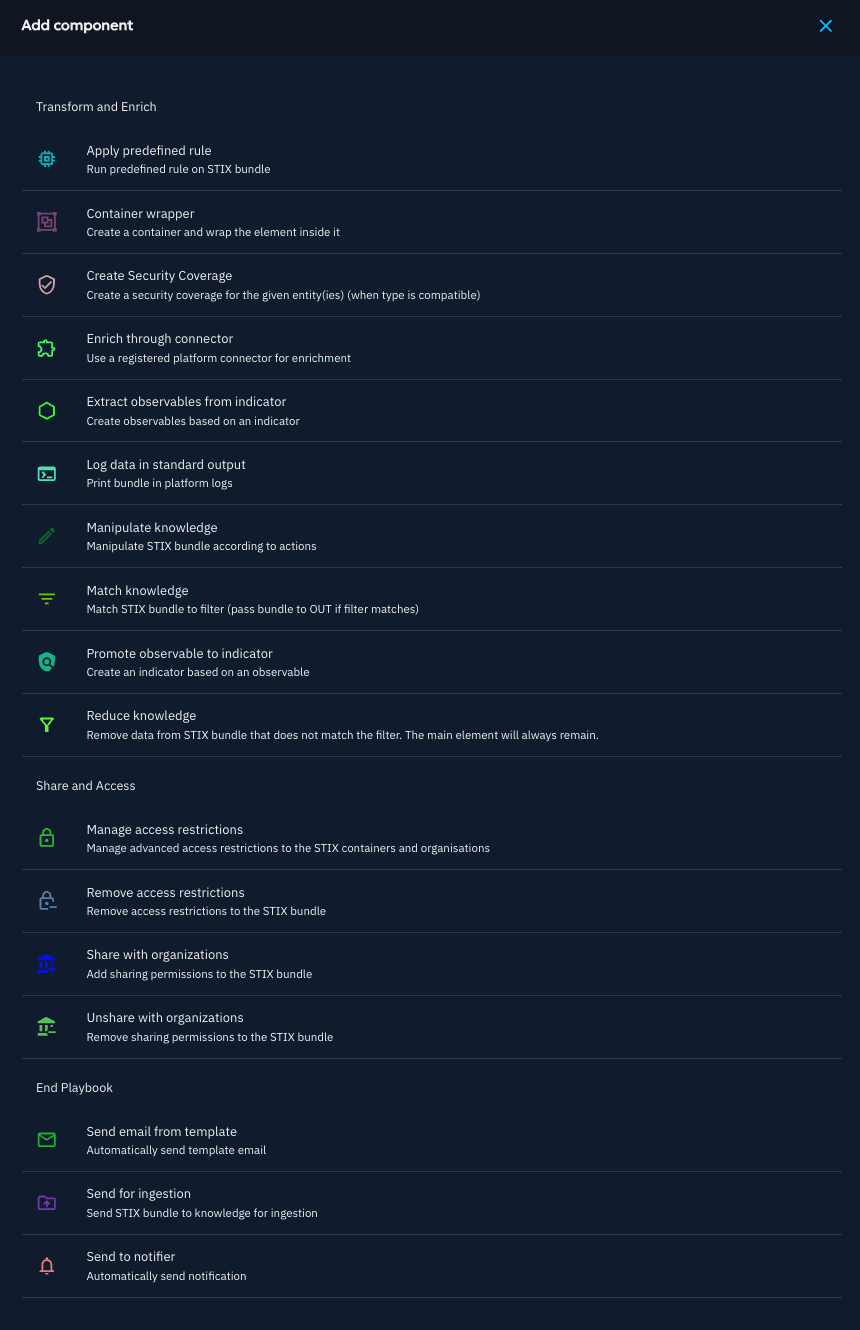
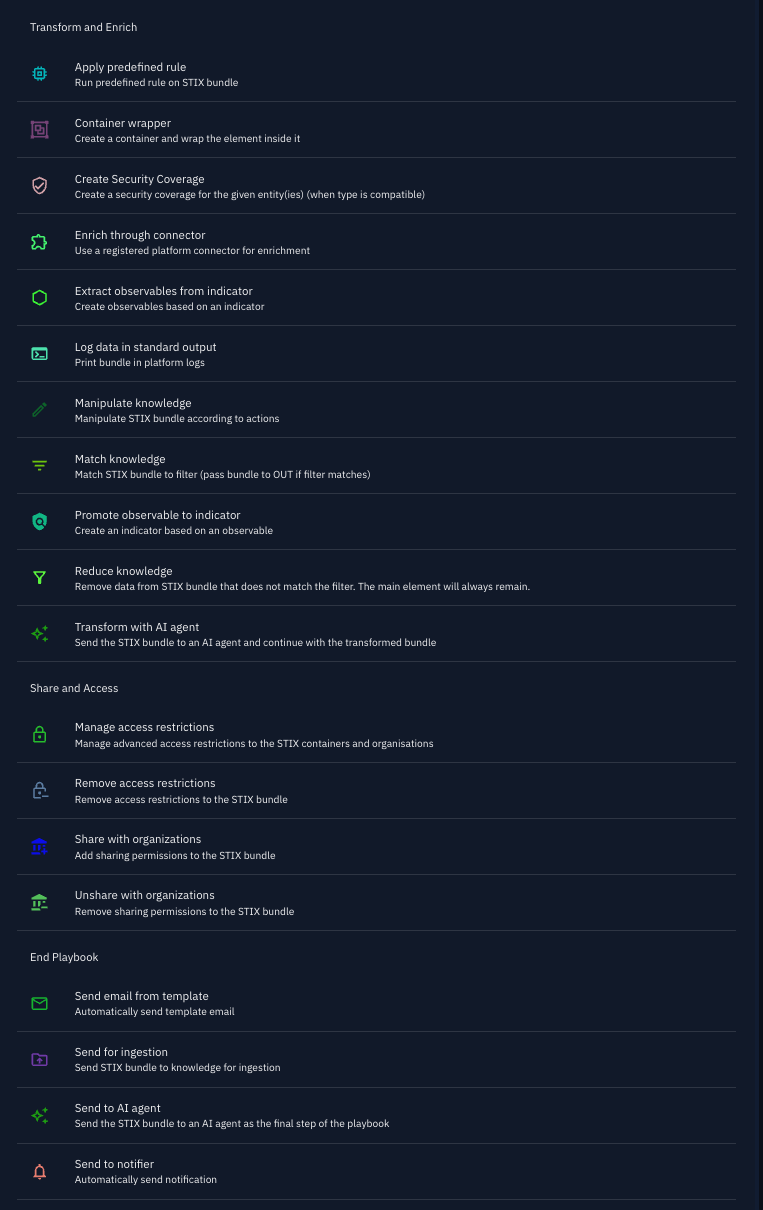
docs(playbooks): refresh the playbook editor screenshots and note that a new playbook opens in edit mode (#19968)
- Playbook creation: say that a new playbook opens in edit mode, show one
  output feeding two end steps in Step 3, and replace the entry point and
  component list screenshots with the new palette (the list now includes
  the AI agent components).
- Playbook automation: replace the data flow screenshot with the new canvas.

diff --git a/docs/docs/usage/playbook-creation.md b/docs/docs/usage/playbook-creation.md
@@ -26,6 +26,8 @@ Each playbook needs to have four steps to be complete:
 
 Assign a name and description to each playbook.
 
+A new playbook opens in edit mode, so you can start adding steps straight away. See [View mode and edit mode](#view-mode-and-edit-mode).
+
 ![Create a new playbook dialog with name and description fields](assets/playbook_create.png)
 
 ## Step 1: Set your event source
@@ -81,6 +83,8 @@ Finish your playbook by processing the bundle with at least one of the following
 - **Send to AI** sends the STIX bundle to an XTM One AI agent as the final step of the playbook. This requires access to XTM One.
 
 These components will complete a branch of your playbook. See the [Playbook components](playbook-components.md) page for full details of the available components. If you want to both send for ingestion and send a notification, add a second step on the same output: an output can feed several steps.
+
+![One output of a step feeding both Send to notifier and Send for ingestion](assets/playbooks/playbook-end-steps.png)
 
 ## Step 4: Start your playbook
 
